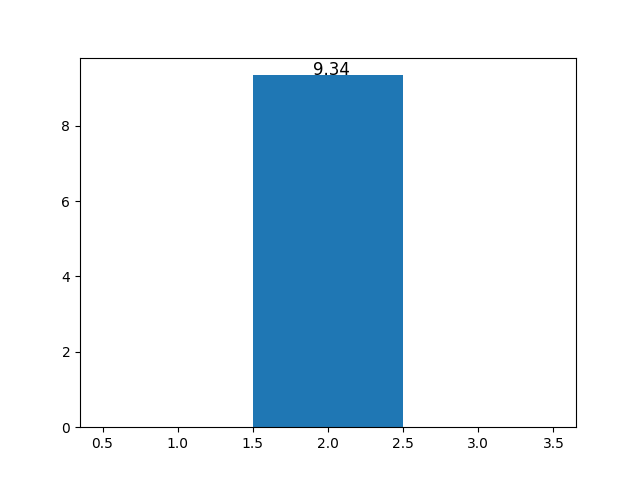
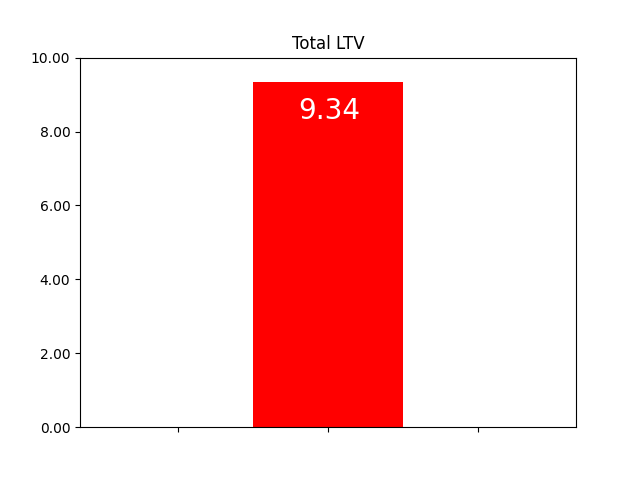
Updated total lifetime value bar plot

diff --git a/src/presentation.py b/src/presentation.py
@@ -31,7 +31,14 @@ def tell_story_about_lifetimevalue_comparing_countries(ltv, countries):
 
 
 def tell_story_about_single_lifetimevalue(ltv):
-    plt.bar([1, 2, 3], [0, ltv, 0], 1)
-    plt.text(1.9, ltv, str(ltv), fontsize=12)
+    from matplotlib.ticker import FormatStrFormatter
+
+    fig, ax = plt.subplots()
+    ax.yaxis.set_major_formatter(FormatStrFormatter('%.2f'))
+    ax.set_ylim(0, 10)
+    plt.bar([1, 2, 3], [0, ltv, 0], 1, tick_label=[''],color = 'red')
+    plt.text(1.8, ltv - 1, str(ltv), fontsize=20, color='white')
+    plt.title('Total LTV')
+
     plt.savefig('../OPENME/ltv.png')
     plt.show()
